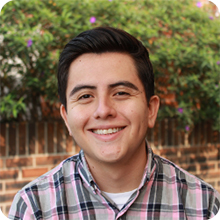
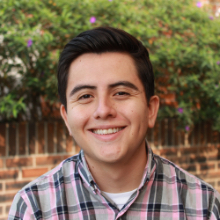
Border radius at photo

diff --git a/index.html b/index.html
@@ -35,7 +35,7 @@
             </a>
             <a href="mailto:hi@cesarchavez.io?subject=Hi Cesar, I wanted to say hi!" target="_blank">
               <img src="img/email.png" srcset="img/email@2x.png 2x" alt="in">
-              <span>hi@cesarchavez.io</span>
+              <span>hi@cesarchavez.io</span> 
             </a>
           </div>
           <p>

diff --git a/styles.css b/styles.css
@@ -49,6 +49,7 @@ a span{
   max-width: auto;
   height: 27rem;
   margin-right: 5rem;
+  border-radius: 2rem;
 }
 .container{
   display: flex;
